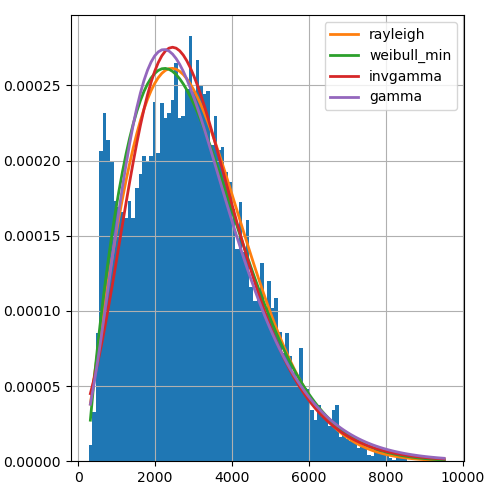
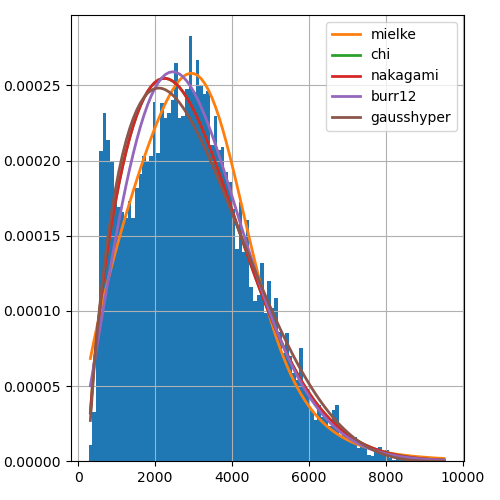
get_distrbutions

Changed region(s): [[0.18, 0.09, 0.9, 0.93], [0.63, 0.06, 0.9, 0.27]]

diff --git a/n_genes_by_counts.py b/n_genes_by_counts.py
@@ -1,13 +1,17 @@
 from scipy.stats import poisson
 import matplotlib.pyplot as plt
 import seaborn as sns
-from fitter import Fitter, get_common_distributions
+from fitter import Fitter, get_common_distributions, get_distributions
 
-def cutoff_005(adata_obj):
+def find_distributions(adata_obj):
     values = adata_obj.obs['n_genes_by_counts'].values
     hist = sns.displot(data=values, kind="hist")
-    f = Fitter(values, distributions=['weibull_min', 'gamma', 'invgamma', 'rayleigh'])
+    #f = Fitter(values, distributions=['weibull_min', 'gamma', 'invgamma', 'rayleigh'])
+    f = Fitter(values, distributions=get_distributions())
     f.fit()
     print(f.summary())
     hist.fig.savefig('bestdist_n_genes_by_counts.png')
-    print(f.get_best())
+    best_dist = f.get_best()
+    print()
+
+    return best_dist

diff --git a/pct_counts_mt.py b/pct_counts_mt.py
@@ -1,13 +1,16 @@
 from scipy.stats import poisson
 import matplotlib.pyplot as plt
 import seaborn as sns
-from fitter import Fitter, get_common_distributions
+from fitter import Fitter, get_common_distributions, get_distributions
 
-def cutoff_005(adata_obj):
+def find_distributions(adata_obj):
     values = adata_obj.obs['pct_counts_mt'].values
     hist = sns.displot(data=values, kind="hist")
-    f = Fitter(values, distributions=['weibull_min', 'gamma', 'invgamma', 'rayleigh'])
+    #f = Fitter(values, distributions=['weibull_min', 'gamma', 'invgamma', 'rayleigh'])
+    f = Fitter(values, distributions=get_distributions())
     f.fit()
     print(f.summary())
     hist.fig.savefig('bestdist_pct_counts_mt.png')
-    print(f.get_best())
+    best_dist = f.get_best()
+    print()
+    return best_dist

diff --git a/total_counts.py b/total_counts.py
@@ -1,13 +1,16 @@
 from scipy.stats import poisson
 import matplotlib.pyplot as plt
 import seaborn as sns
-from fitter import Fitter, get_common_distributions
+from fitter import Fitter, get_common_distributions, get_distributions
 
-def cutoff_005(adata_obj):
+def find_distributions(adata_obj):
     values = adata_obj.obs['total_counts'].values
     hist = sns.displot(data=values, kind="hist")
-    f = Fitter(values, distributions=['weibull_min', 'gamma', 'invgamma', 'rayleigh'])
+    #f = Fitter(values, distributions=['weibull_min', 'gamma', 'invgamma', 'rayleigh'])
+    f = Fitter(values, distributions=get_distributions())
     f.fit()
     print(f.summary())
     hist.fig.savefig('bestdist_total_counts.png')
-    print(f.get_best())
+    best_dist = f.get_best()
+    print()
+    return best_dist

diff --git a/scRNAseq_filter.py b/scRNAseq_filter.py
@@ -21,10 +21,13 @@ def main():
 
     data_dir = args.dir 
     adata_obj = preprocess_data.preprocess_data(data_dir)
-    n_genes_by_counts.cutoff_005(adata_obj)
-    total_counts.cutoff_005(adata_obj)
-    pct_counts_mt.cutoff_005(adata_obj)
+    n_genes_by_counts_dist = n_genes_by_counts.find_distributions(adata_obj)
+    total_counts_dist = total_counts.find_distributions(adata_obj)
+    pct_counts_mt_dist = pct_counts_mt.find_distributions(adata_obj)
 
+    print(f'n_genes_by_counts: {n_genes_by_counts_dist}')
+    print(f'total_counts: {total_counts_dist}')
+    print(f'pct_counts_mt: {pct_counts_mt_dist}')
     return
 
 if __name__ == "__main__":
